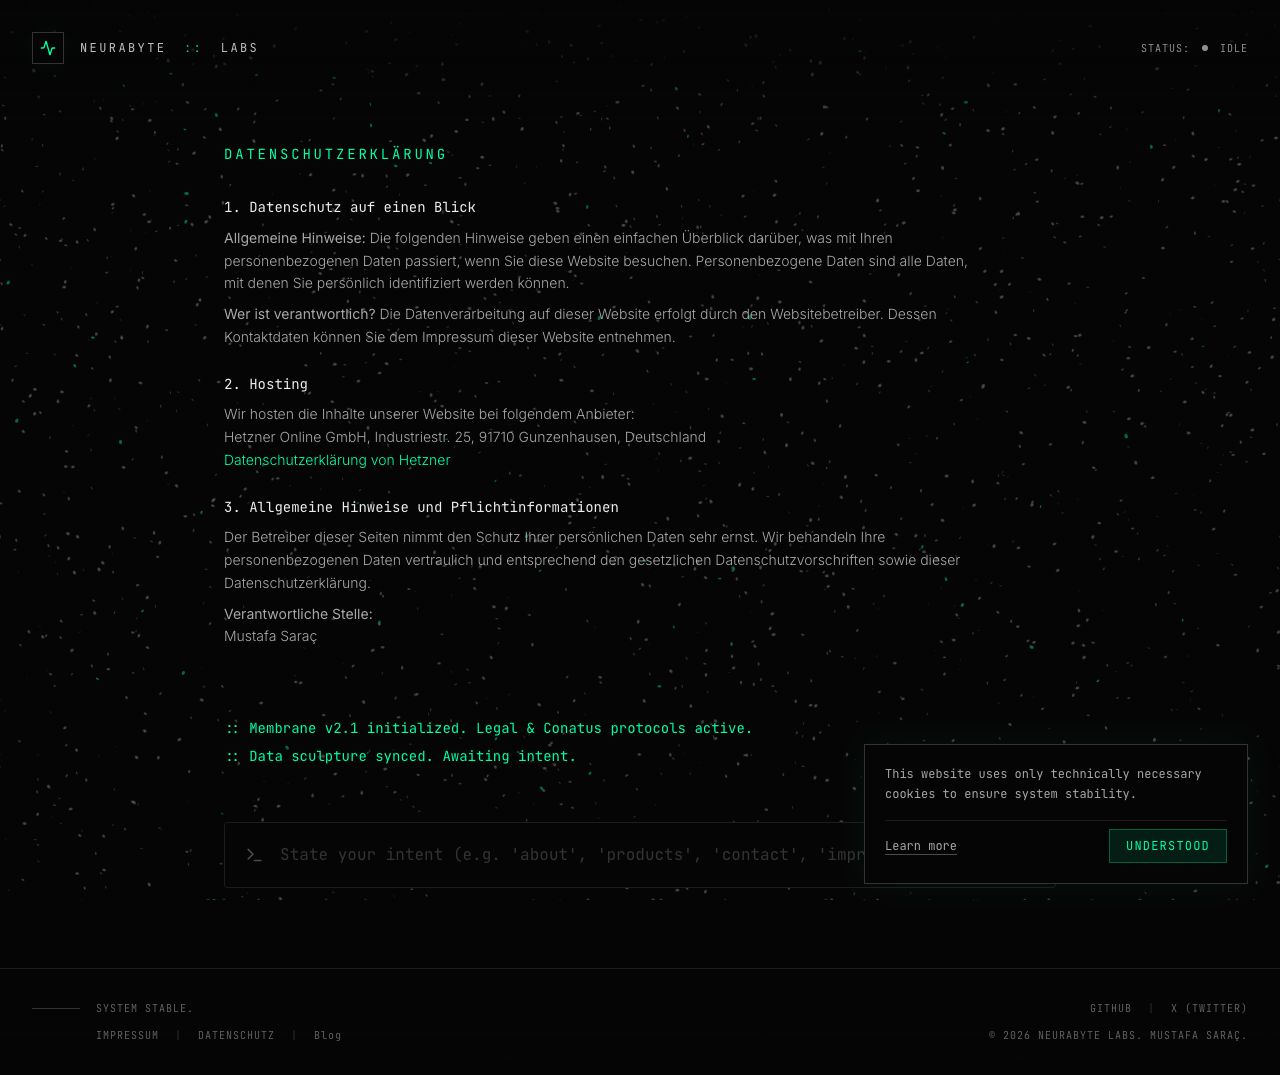
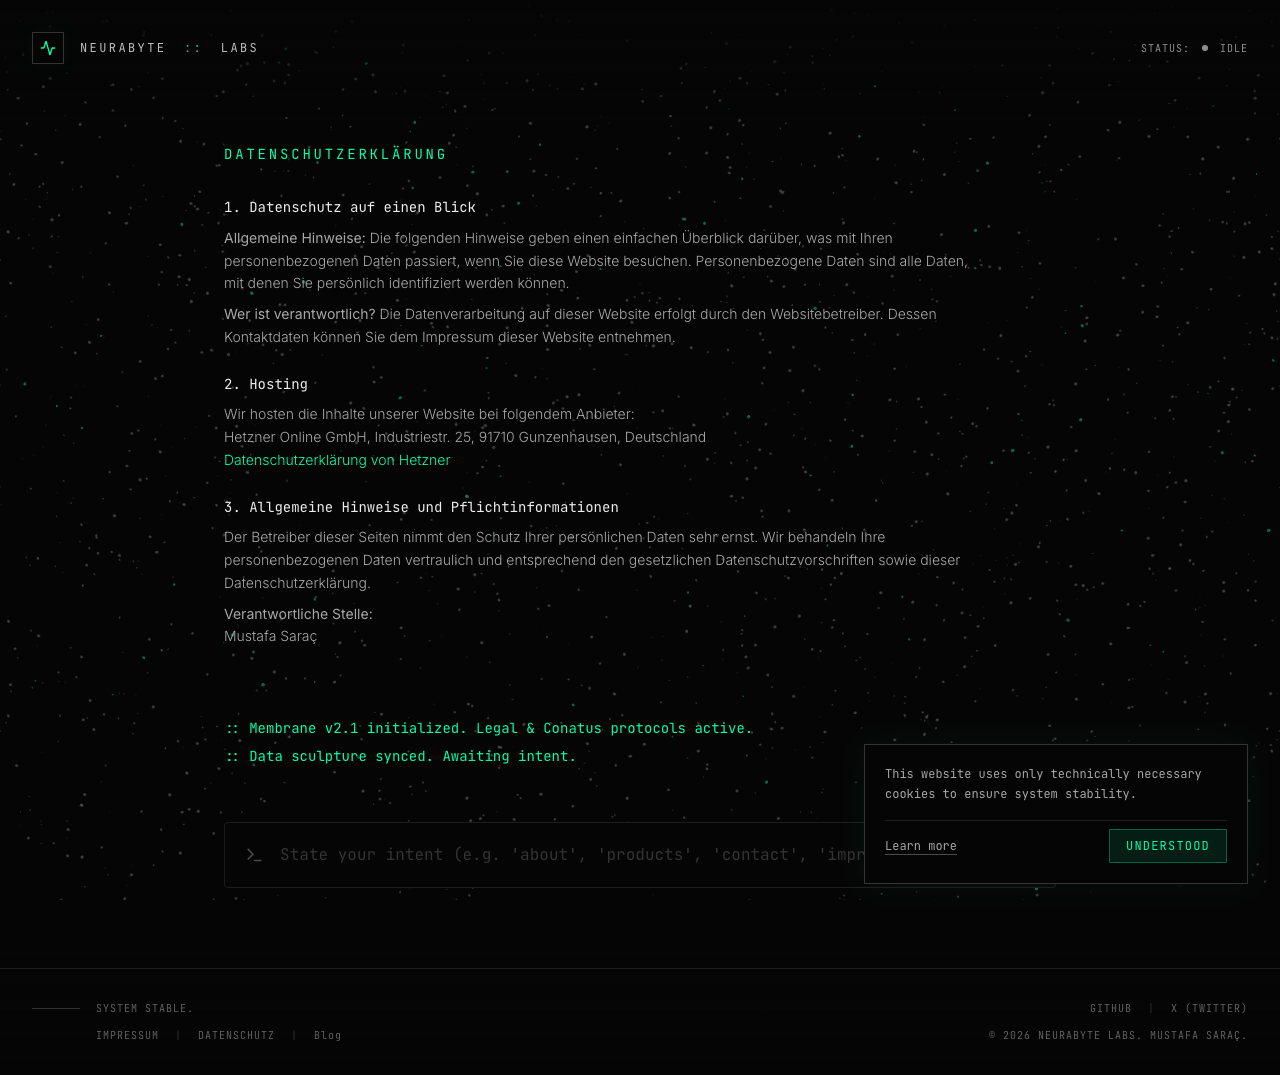
fix: kapanmış AB OS platformu bağlantısını Impressum'dan kaldır (USTA)

diff --git a/src/App.tsx b/src/App.tsx
@@ -278,10 +278,7 @@ export default function App() {
               </div>
               <div>
                 <h3 className="font-mono text-ratio mb-2">Streitschlichtung</h3>
-                <p>Die Europäische Kommission stellt eine Plattform zur Online-Streitbeilegung (OS) bereit:<br/>
-                <a href="https://ec.europa.eu/consumers/odr/" target="_blank" rel="noreferrer" className="text-spark hover:underline">https://ec.europa.eu/consumers/odr/</a><br/>
-                Unsere E-Mail-Adresse finden Sie oben im Impressum.<br/>
-                Wir sind nicht bereit oder verpflichtet, an Streitbeilegungsverfahren vor einer Verbraucherschlichtungsstelle teilzunehmen.</p>
+                <p>Wir sind nicht bereit oder verpflichtet, an Streitbeilegungsverfahren vor einer Verbraucherschlichtungsstelle teilzunehmen.</p>
               </div>
               <div>
                 <h3 className="font-mono text-ratio mb-2">Haftung für Inhalte & Links</h3>

diff --git a/qa/legal_routes.py b/qa/legal_routes.py
@@ -42,6 +42,10 @@ try:
                 check("Impressum: § 5 DDG", "§ 5 DDG" in txt)
                 check("Impressum: § 18 Abs. 2 MStV", "§ 18 Abs. 2 MStV" in txt)
                 check("Impressum: TMG/RStV atfı yok", "TMG" not in txt and "RStV" not in txt)
+                check("Impressum: kapanmış AB OS platformu bağlantısı yok",
+                      pg.locator('a[href*="ec.europa.eu/consumers/odr"]').count() == 0 and "Online-Streitbeilegung" not in txt)
+                check("Impressum: Verbraucherschlichtung cümlesi duruyor", "Verbraucherschlichtungsstelle" in txt)
+                check("Impressum: adres değişmedi (Remigiusstr 39, 50937 Köln)", "Remigiusstr 39" in txt and "50937 Köln" in txt)
 
         pg.goto(BASE + "/")
         pg.wait_for_timeout(500)
